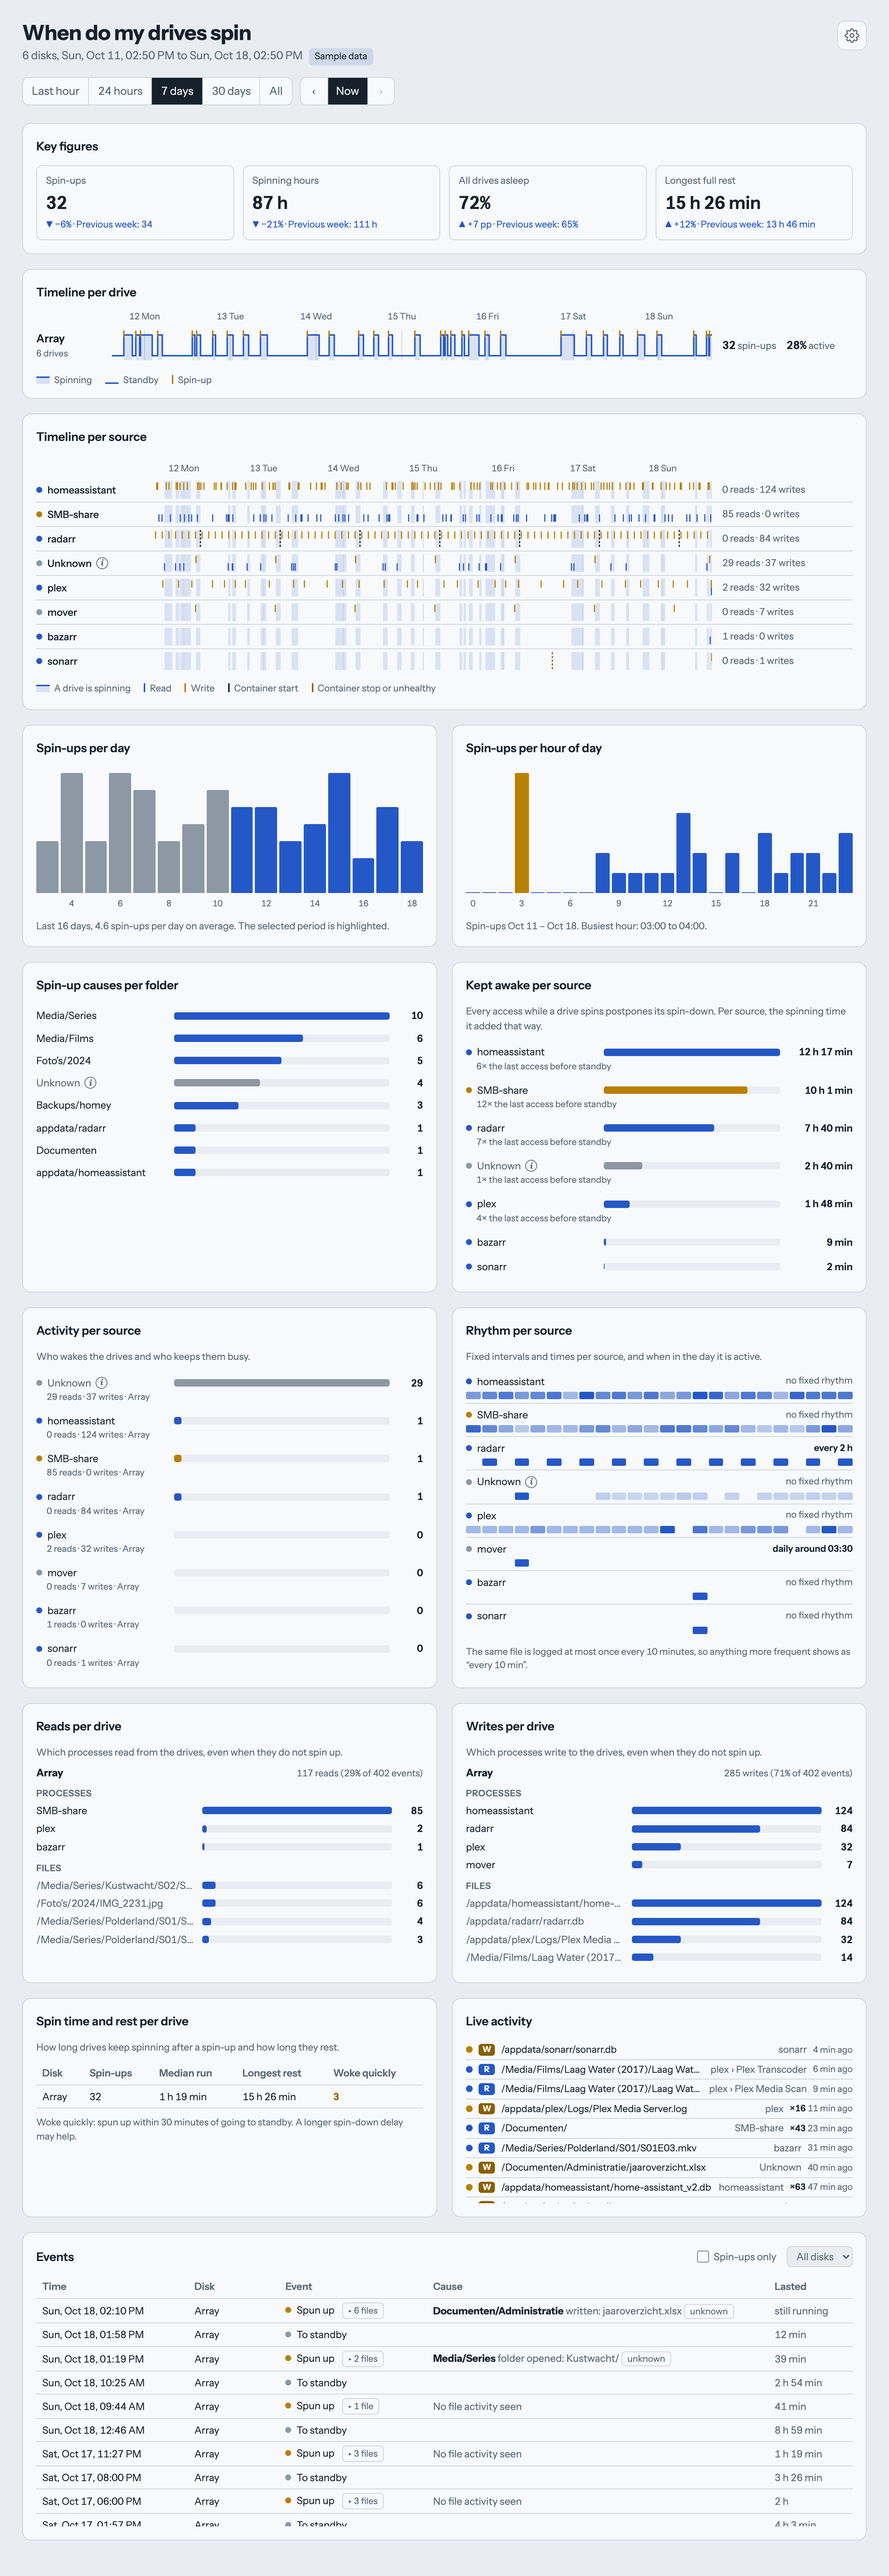
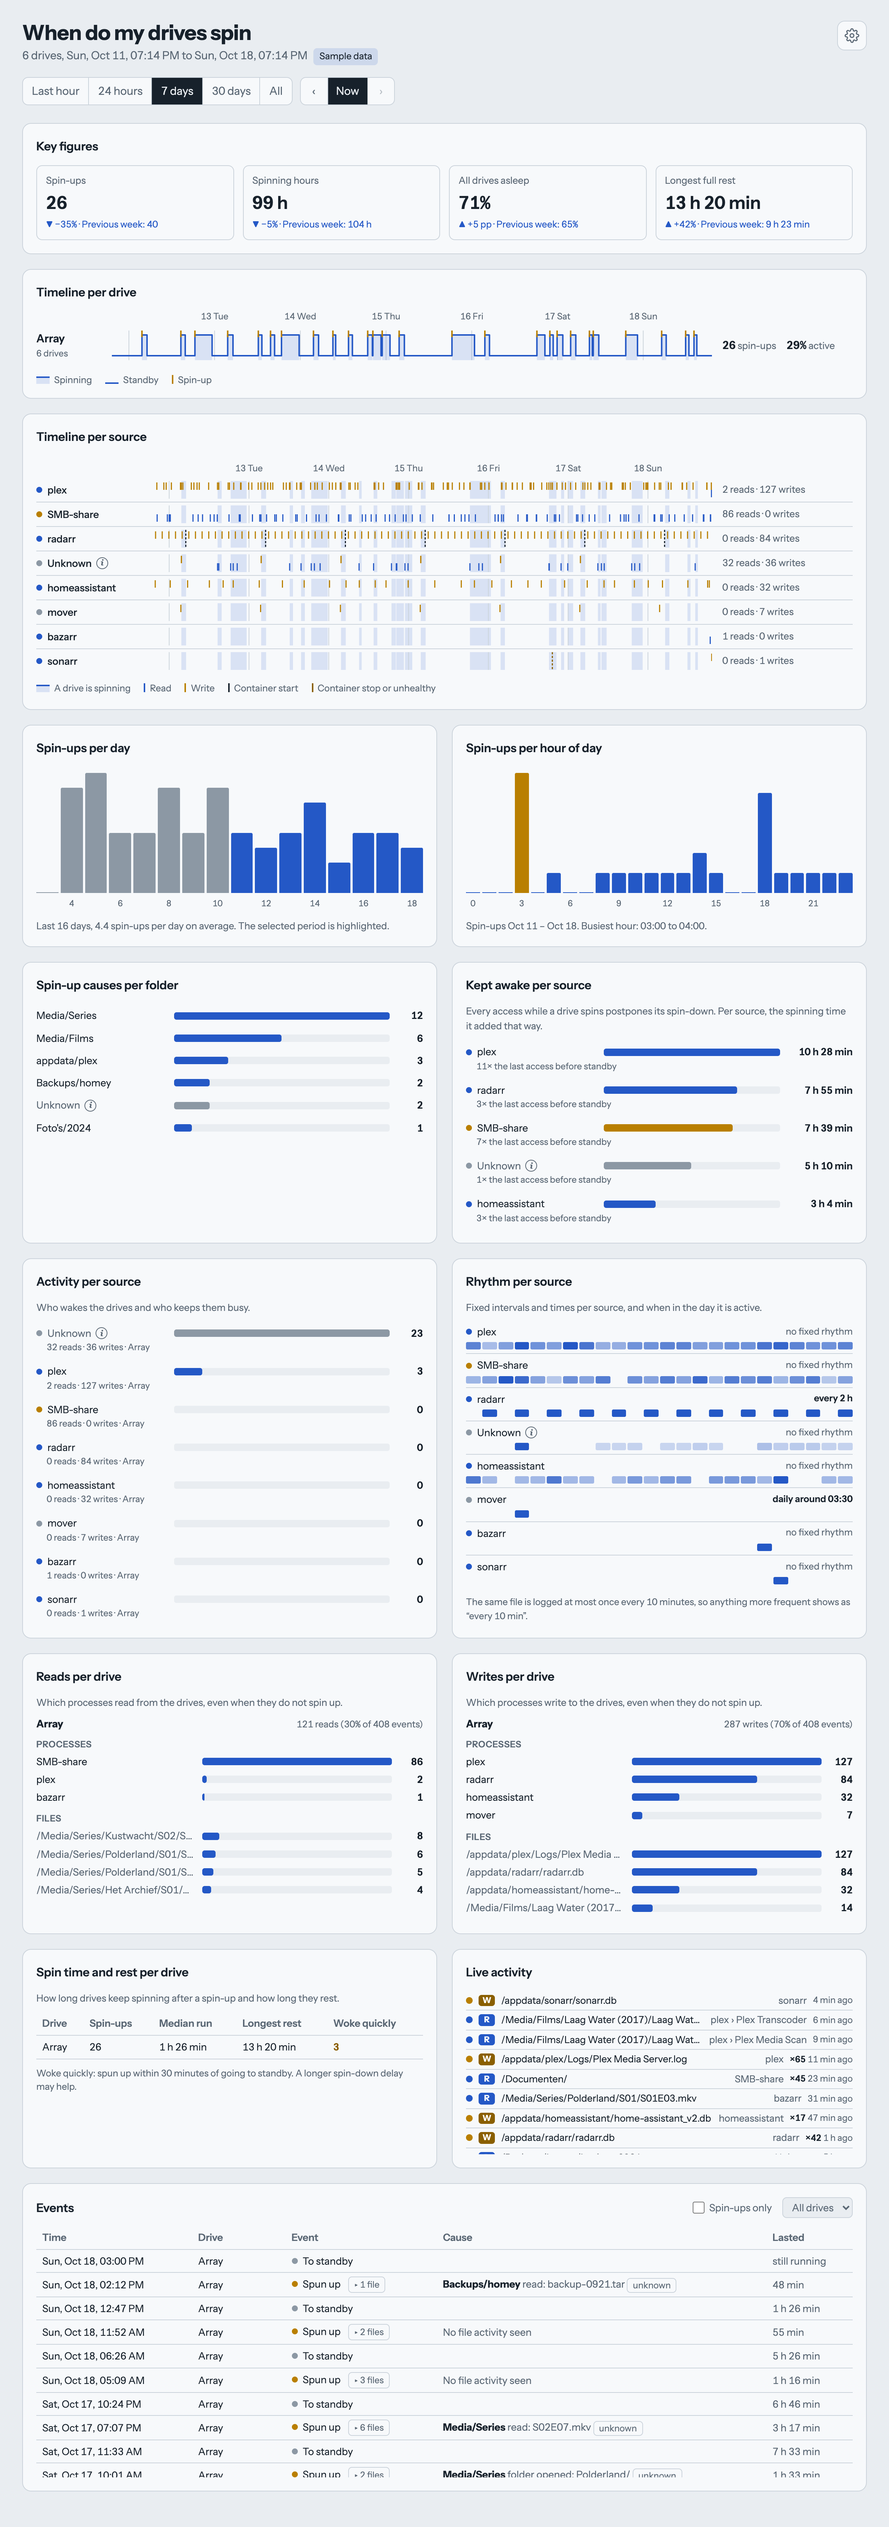
Say "drive" everywhere in the English UI

diff --git a/app/static/index.html b/app/static/index.html
@@ -500,7 +500,7 @@ td{padding:5px 8px;border-bottom:1px solid var(--line);white-space:nowrap}
       </div>
       <div class="tablewrap">
         <table>
-          <thead><tr><th data-i18n="thTime">Time</th><th data-i18n="thDisk">Disk</th><th data-i18n="thEvent">Event</th><th id="causeHead" data-i18n="thCause">Cause</th><th data-i18n="thDur">Lasted</th></tr></thead>
+          <thead><tr><th data-i18n="thTime">Time</th><th data-i18n="thDisk">Drive</th><th data-i18n="thEvent">Event</th><th id="causeHead" data-i18n="thCause">Cause</th><th data-i18n="thDur">Lasted</th></tr></thead>
           <tbody id="events"></tbody>
         </table>
       </div>
@@ -578,14 +578,14 @@ const I18N = {
     allPools:'All pools', allDisksPools:'All drives and pools', dragToMove:'Drag to move', hideTitle:'Hidden paths', hideHelp:'One path per line. * matches anything, ? one character. Example: /mnt/user/appdata/*', hideCount:'{n} of {total} file events hidden', actProcs:'Processes', actFiles:'Files', feedRepeat:'{n} times among the most recent events', feedNote:'Always the most recent events, whatever period is selected.', srcTitle:'Activity per source', srcNote:'Who wakes the drives and who keeps them busy.', srcUps:'spin-ups caused', srcLine:'{r} reads · {w} writes', restTitle:'Spin time and rest per drive', restNote:'How long drives keep spinning after a spin-up and how long they rest.', restMedian:'Median run', restLongest:'Longest rest', restQuick:'Woke quickly', restQuickNote:'Woke quickly: spun up within 30 minutes of going to standby. A longer spin-down delay may help.', srcLanesTitle:'Timeline per source', legAnyUp:'A drive is spinning', legRead:'Read', legWrite:'Write', awakeTitle:'Kept awake per source', awakeNote:'Every access while a drive spins postpones its spin-down. Per source, the spinning time it added that way.', awakeLine:'{n}× the last access before standby', awakeNone:'No activity while the drives were spinning.', rhythmTitle:'Rhythm per source', profRhythm:'Rhythm', rhythmNote:'Fixed intervals and times per source, and when in the day it is active.', rhythmDedup:'The same file is logged at most once every 10 minutes, so anything more frequent shows as “every 10 min”.', rhythmEvery:'every {d}', rhythmDaily:'daily around {time}', rhythmNone:'no fixed rhythm', rhythmStrip:'Activity per hour of day, busiest {from} to {to}', profOpen:'Show details of {name}', profUps:'Spin-ups caused', profKeep:'Kept awake', profReads:'Reads', profWrites:'Writes', profHeat:'Activity by day and hour', profDrives:'Drives', profFolders:'Folders', profFiles:'Files', profCell:'{day} {hour}: {n} events', legStart:'Container start', legStop:'Container stop or unhealthy', ctrBefore:'{what} of {name} {ago} before', ctr_start:'Start', ctr_die:'Stop', ctr_restart:'Restart', ctr_healthy:'Healthy', ctr_unhealthy:'Unhealthy', exitCode:'exit code {code}', profLife:'Start and stop', profLifeNone:'No start or stop in this period.', mountsFailed:'Could not read the containers.', mountsTitle:'Paths per container', mountsNote:'Which folders on the array or a pool each container maps. HDD: the folder can be on a hard drive, according to the share settings.', mountsLoading:'Loading containers…', mountsNoDocker:'No Docker socket: mount /var/run/docker.sock to see the paths per container.', mountsNone:'No containers with paths under /mnt.', ctrStopped:'stopped', sizeSmall:'Small', sizeLarge:'Large', sizeTip:'Small takes half the width, large the whole width', sizeToggle:'{name}: {size}, change size', sizeSet:'{name}: {size}', swapToRight:'{name}: move to the right', swapToLeft:'{name}: move to the left', swapped:'{name}: now on the {side}', sideLeft:'left', sideRight:'right', pos_full:'whole width', pos_left:'left half', pos_right:'right half', pos_alone:'half width, alone in its row', pos_hidden:'hidden', kpiTitle:'Key figures', kpiUps:'Spin-ups', kpiHours:'Spinning hours', kpiRest:'All drives asleep', kpiLongest:'Longest full rest', kpiNoPrev:'Not enough history yet to compare with the previous period.', cmpSame:'unchanged', pp:'pp', cmpBetter:'better', cmpWorse:'worse', daysTitle:'Spin-ups per day', daysBar:'{day}: {n} spin-ups', daysNote:'Last {n} days, {avg} spin-ups per day on average. The selected period is highlighted.', hideSaveFailed:'Could not save on the server; kept in this browser only.', traceHint:'Use the left and right arrow keys to step through the periods.', noDataYet:'No data yet', noData:'No data', lanes:'Timeline per drive',
     legSpin:'Spinning', legIdle:'Standby', legUp:'Spin-up',
     histTitle:'Spin-ups per hour of day', causesTitle:'Spin-up causes per folder', eventsTitle:'Events',
-    onlyUp:'Spin-ups only', devFilter:'Filter by disk', allDisks:'All disks',
-    thTime:'Time', thDisk:'Disk', thEvent:'Event', thCause:'Cause', thDur:'Lasted',
-    summary:'{n} disks, {from} to {to}', demo:'Sample data', live:'Live, updated {time}',
+    onlyUp:'Spin-ups only', devFilter:'Filter by drive', allDisks:'All drives',
+    thTime:'Time', thDisk:'Drive', thEvent:'Event', thCause:'Cause', thDur:'Lasted',
+    summary:'{n} drives, {from} to {to}', demo:'Sample data', live:'Live, updated {time}',
     laneAria:'{name}: {ups} spin-ups, {pct}% active', spinUps:'spin-ups', active:'active',
     histBar:'{from} to {to}: {n} spin-ups',
     histSpan:'Spin-ups {range}. Busiest hour: {from} to {to}.',
     noUps:'No spin-ups in this period.',
-    noActivity:'No file activity yet. As soon as an HDD pool or array disk is accessed, you will see here which folders wake the drives.',
+    noActivity:'No file activity yet. As soon as an HDD pool or array drive is accessed, you will see here which folders wake the drives.',
     rootNote:'Root of a pool means only the folder list of the pool was read, without a file being opened afterwards. Usually something requests the share list or /mnt/user, such as an SMB browser, the webGUI or a container scanning /mnt/user. The Dynamix Cache Directories plugin keeps those lists in RAM, so the drive does not have to spin up for them.',
     unknownNote:'Unknown means no file access around the spin-up, for example a SMART poll, a manual spin-up or a folder that was already served from cache.',
     noActivityAround:'No file activity around these spin-ups', unknown:'Unknown',

diff --git a/README.md b/README.md
@@ -86,14 +86,14 @@ Keep the `/data` path on an SSD/cache pool (see [Tips](#tips)). The `/mnt`, `/em
 socket mounts and the privileged/host-PID settings are explained under
 [Permissions, and why](#permissions-and-why).
 
-Open the WebUI on port 8089. The first drive check runs within a minute; file sources appear as soon as a disk is accessed.
+Open the WebUI on port 8089. The first drive check runs within a minute; file sources appear as soon as a drive is accessed.
 
 ## How it works
 
 | Part | How |
 |---|---|
 | Drive state | `hdparm -C` every 60 s (falls back to `smartctl -n standby`). Neither wakes a sleeping drive. Only changes are stored. |
-| Disk names | Read from Unraid's `/var/local/emhttp/disks.ini` (parity, disk1, pool members). |
+| Drive names | Read from Unraid's `/var/local/emhttp/disks.ini` (parity, disk1, pool members). |
 | File access | `fatrace` (fanotify) on every HDD-backed mount, including ZFS datasets. Opens, writes to open files, creates, deletes and moves, each labelled read or write. |
 | Source | The process behind each access is looked up in the host process table. Containers are recognised by cgroup and named via the Docker socket. Access through `/mnt/user` passes through shfs; the dashboard then looks up which process has the file open via `/mnt/user`. |
 | Storage | One plain CSV file per day in `days/` in the appdata folder, with drive states and file access together. History is kept for 30 days by default. Files from older versions (`spin.csv`, `who.csv`, …) are converted automatically on start and moved to `legacy/`. |
@@ -106,7 +106,7 @@ Open the WebUI on port 8089. The first drive check runs within a minute; file so
 | Privileged | fanotify on whole filesystems needs `CAP_SYS_ADMIN`; `hdparm` needs raw access to `/dev/sdX`. |
 | `--pid=host` | To see which process (and which container) opened a file. |
 | `/mnt` read-only, slave | To trace file access on the array and pools. Nothing is ever written there. |
-| `/var/local/emhttp` read-only | Disk names and pool membership. |
+| `/var/local/emhttp` read-only | Drive names and pool membership. |
 | Docker socket read-only | Only to translate container IDs into names. |
 
 ## Tips
@@ -120,7 +120,7 @@ Open the WebUI on port 8089. The first drive check runs within a minute; file so
 
 | Symptom | Check |
 |---|---|
-| No disks in the dashboard | Container log: is `/var/local/emhttp` mounted and is the container privileged? |
+| No drives in the dashboard | Container log: is `/var/local/emhttp` mounted and is the container privileged? |
 | Spin-ups but no sources | Log should show `Watching: /mnt/…`. If not, set *Watch override* to your mounts, e.g. `/mnt/disk1 /mnt/tank`. |
 | Everything shows as `shfs (via /mnt/user)` | The access was too short to trace through shfs. Exclusive shares help. |
 | Containers show as their process name | The Docker socket is not mounted. |

diff --git a/completed.md b/completed.md
@@ -2,6 +2,9 @@
 
 Newest first.
 
+## 2026-10-18: one word for the hardware
+- The English UI says "drive" everywhere (the events table, the filter, the subtitle and the empty-state text said "disk"); a test keeps it that way. The other languages already used one word. README wording follows; screenshots refreshed
+
 ## 2026-10-18: period buttons on a phone
 - The period buttons fill the width on a narrow screen (wider where the text is longer, text may wrap to two lines) instead of scrolling with a hidden scrollbar, so "All" is never cut off
 

diff --git a/todo.md b/todo.md
@@ -19,7 +19,6 @@ Open work, roughly by priority. Move finished items to `completed.md`.
 - [ ] Bytes per container: only possible for direct `/mnt/diskN` or pool mappings, see `docs/decisions.md`
 
 ## Design (from the 2026-10-16 audit, medium priority)
-- [ ] Use one word for the hardware: the UI mixes "drive" and "disk" (headings say drives, the table and filter say disk)
 - [ ] Full file paths in Active drives and the live feed are only reachable by hover or tap, not by keyboard
 
 ## Technical
